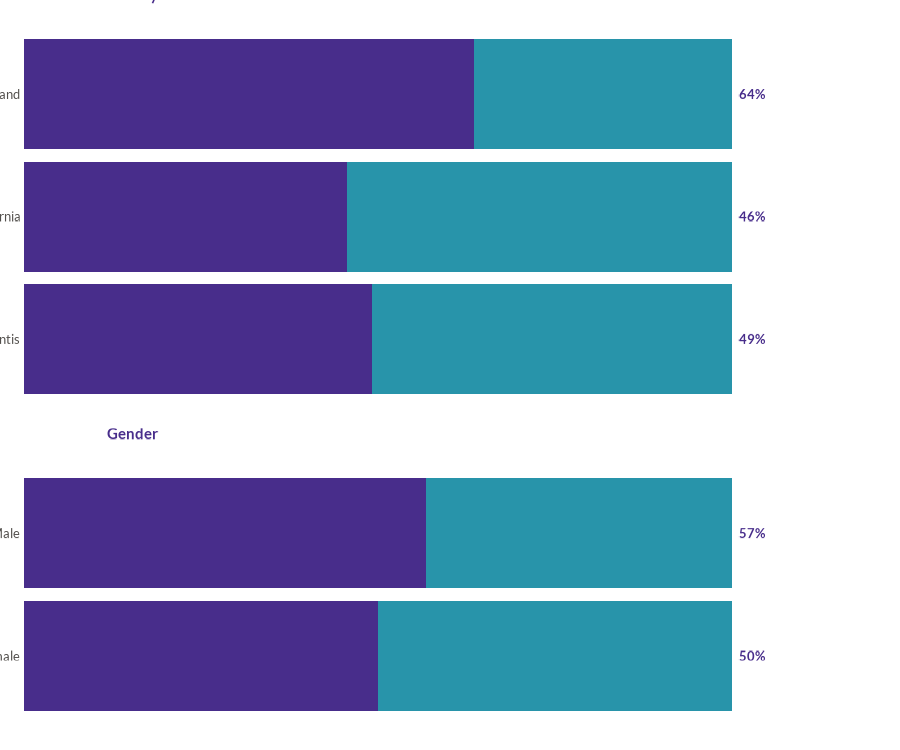
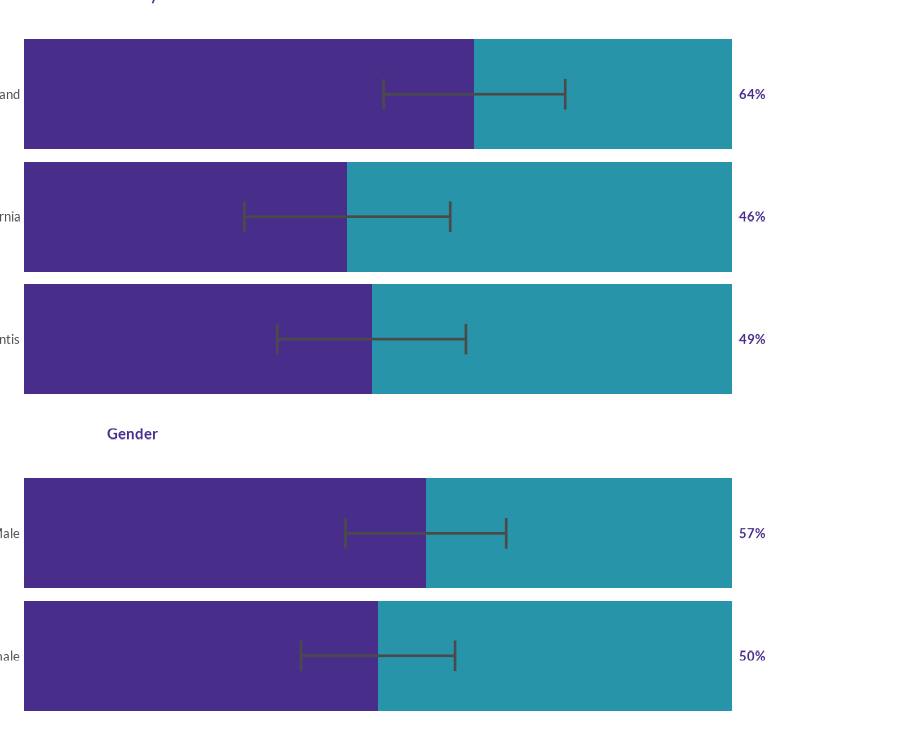
Deploying to gh-pages from @ worldjusticeproject-org/WJPr@0c21d4c911905995037937af474b43172f8aeab3 🚀

diff --git a/reference/wjp_groupbars.html b/reference/wjp_groupbars.html
@@ -99,6 +99,10 @@ groups like gender, age, income, etc.</p>
 <span>  level_order <span class="op">=</span> <span class="cn">NULL</span>,</span>
 <span>  show_national <span class="op">=</span> <span class="cn">FALSE</span>,</span>
 <span>  national_value <span class="op">=</span> <span class="cn">NULL</span>,</span>
+<span>  draw_ci <span class="op">=</span> <span class="cn">FALSE</span>,</span>
+<span>  sd <span class="op">=</span> <span class="cn">NULL</span>,</span>
+<span>  sample_size <span class="op">=</span> <span class="cn">NULL</span>,</span>
+<span>  ci_level <span class="op">=</span> <span class="fl">0.95</span>,</span>
 <span>  ptheme <span class="op">=</span> <span class="fu"><a href="WJP_theme.html">WJP_theme</a></span><span class="op">(</span><span class="op">)</span></span>
 <span><span class="op">)</span></span></code></pre></div>
     </div>
@@ -150,6 +154,26 @@ specifying the order of levels within each group. Default is NULL (uses data ord
 <dd><p>Numeric. The national average value to display when show_national is TRUE.</p></dd>
 
 
+<dt id="arg-draw-ci">draw_ci<a class="anchor" aria-label="anchor" href="#arg-draw-ci"></a></dt>
+<dd><p>Logical. If TRUE, draws a per-category confidence interval on each
+primary bar using a normal approximation built from <code>sd</code> and <code>sample_size</code>.
+Default is FALSE.</p></dd>
+
+
+<dt id="arg-sd">sd<a class="anchor" aria-label="anchor" href="#arg-sd"></a></dt>
+<dd><p>String. Column name with the standard deviation used to build the
+confidence interval. Required when <code>draw_ci = TRUE</code>. Default is NULL.</p></dd>
+
+
+<dt id="arg-sample-size">sample_size<a class="anchor" aria-label="anchor" href="#arg-sample-size"></a></dt>
+<dd><p>String. Column name with the number of observations used to
+build the confidence interval. Required when <code>draw_ci = TRUE</code>. Default is NULL.</p></dd>
+
+
+<dt id="arg-ci-level">ci_level<a class="anchor" aria-label="anchor" href="#arg-ci-level"></a></dt>
+<dd><p>Numeric. Confidence level for the interval. Default is 0.95.</p></dd>
+
+
 <dt id="arg-ptheme">ptheme<a class="anchor" aria-label="anchor" href="#arg-ptheme"></a></dt>
 <dd><p>A ggplot2 theme. Default is WJP_theme().</p></dd>
 
@@ -193,6 +217,26 @@ specifying the order of levels within each group. Default is NULL (uses data ord
 <span class="r-in"><span>  group_order <span class="op">=</span> <span class="fu"><a href="https://rdrr.io/r/base/c.html" class="external-link">c</a></span><span class="op">(</span><span class="st">"Gender"</span>, <span class="st">"Age"</span><span class="op">)</span></span></span>
 <span class="r-in"><span><span class="op">)</span></span></span>
 <span class="r-plt img"><img src="wjp_groupbars-2.png" alt="" width="700" height="433"></span>
+<span class="r-in"><span></span></span>
+<span class="r-in"><span><span class="co"># With a per-category confidence interval (requires sd + sample_size columns)</span></span></span>
+<span class="r-in"><span><span class="va">data_ci</span> <span class="op">&lt;-</span> <span class="fu"><a href="https://rdrr.io/r/base/data.frame.html" class="external-link">data.frame</a></span><span class="op">(</span></span></span>
+<span class="r-in"><span>  group    <span class="op">=</span> <span class="fu"><a href="https://rdrr.io/r/base/c.html" class="external-link">c</a></span><span class="op">(</span><span class="st">"Gender"</span>, <span class="st">"Gender"</span>, <span class="st">"Age"</span>, <span class="st">"Age"</span>, <span class="st">"Age"</span><span class="op">)</span>,</span></span>
+<span class="r-in"><span>  category <span class="op">=</span> <span class="fu"><a href="https://rdrr.io/r/base/c.html" class="external-link">c</a></span><span class="op">(</span><span class="st">"Male"</span>, <span class="st">"Female"</span>, <span class="st">"18-29"</span>, <span class="st">"30-49"</span>, <span class="st">"50+"</span><span class="op">)</span>,</span></span>
+<span class="r-in"><span>  value    <span class="op">=</span> <span class="fu"><a href="https://rdrr.io/r/base/c.html" class="external-link">c</a></span><span class="op">(</span><span class="fl">0.45</span>, <span class="fl">0.52</span>, <span class="fl">0.38</span>, <span class="fl">0.48</span>, <span class="fl">0.55</span><span class="op">)</span>,</span></span>
+<span class="r-in"><span>  se       <span class="op">=</span> <span class="fu"><a href="https://rdrr.io/r/base/c.html" class="external-link">c</a></span><span class="op">(</span><span class="fl">0.50</span>, <span class="fl">0.50</span>, <span class="fl">0.49</span>, <span class="fl">0.50</span>, <span class="fl">0.50</span><span class="op">)</span>,</span></span>
+<span class="r-in"><span>  n        <span class="op">=</span> <span class="fu"><a href="https://rdrr.io/r/base/c.html" class="external-link">c</a></span><span class="op">(</span><span class="fl">420</span>, <span class="fl">460</span>, <span class="fl">180</span>, <span class="fl">510</span>, <span class="fl">240</span><span class="op">)</span></span></span>
+<span class="r-in"><span><span class="op">)</span></span></span>
+<span class="r-in"><span></span></span>
+<span class="r-in"><span><span class="fu">wjp_groupbars</span><span class="op">(</span></span></span>
+<span class="r-in"><span>  <span class="va">data_ci</span>,</span></span>
+<span class="r-in"><span>  target      <span class="op">=</span> <span class="st">"value"</span>,</span></span>
+<span class="r-in"><span>  grouping    <span class="op">=</span> <span class="st">"group"</span>,</span></span>
+<span class="r-in"><span>  levels      <span class="op">=</span> <span class="st">"category"</span>,</span></span>
+<span class="r-in"><span>  draw_ci     <span class="op">=</span> <span class="cn">TRUE</span>,</span></span>
+<span class="r-in"><span>  sd          <span class="op">=</span> <span class="st">"se"</span>,</span></span>
+<span class="r-in"><span>  sample_size <span class="op">=</span> <span class="st">"n"</span></span></span>
+<span class="r-in"><span><span class="op">)</span></span></span>
+<span class="r-plt img"><img src="wjp_groupbars-3.png" alt="" width="700" height="433"></span>
 <span class="r-in"><span></span></span>
 </code></pre></div>
     </div>

diff --git a/articles/gallery.html b/articles/gallery.html
@@ -887,14 +887,19 @@ category</caption>
 <p><code><a href="../reference/wjp_groupbars.html">wjp_groupbars()</a></code> - Faceted bars that compare a value
 across demographic groups (one facet per <code>grouping</code>).</p>
 <div class="sourceCode" id="cb15"><pre class="downlit sourceCode r">
-<code class="sourceCode R"><span><span class="co"># Value by country, plus the same value broken down by gender</span></span>
+<code class="sourceCode R"><span><span class="co"># Value by country, plus the same value broken down by gender.</span></span>
+<span><span class="co"># Keep the standard deviation (sd) and sample size (n) per category so we can</span></span>
+<span><span class="co"># draw a confidence interval on each bar.</span></span>
 <span><span class="va">country_level</span> <span class="op">&lt;-</span> <span class="va">gpp_data</span> <span class="op"><a href="../reference/pipe.html">%&gt;%</a></span></span>
 <span>  <span class="fu"><a href="https://dplyr.tidyverse.org/reference/filter.html" class="external-link">filter</a></span><span class="op">(</span><span class="va">year</span> <span class="op">==</span> <span class="fl">2022</span><span class="op">)</span> <span class="op"><a href="../reference/pipe.html">%&gt;%</a></span></span>
 <span>  <span class="fu"><a href="https://dplyr.tidyverse.org/reference/mutate.html" class="external-link">mutate</a></span><span class="op">(</span>q1a <span class="op">=</span> <span class="fu"><a href="https://rdrr.io/r/base/double.html" class="external-link">as.double</a></span><span class="op">(</span><span class="fu"><a href="https://rdrr.io/r/base/class.html" class="external-link">unclass</a></span><span class="op">(</span><span class="va">q1a</span><span class="op">)</span><span class="op">)</span>,</span>
 <span>         trust <span class="op">=</span> <span class="fu"><a href="https://dplyr.tidyverse.org/reference/case-and-replace-when.html" class="external-link">case_when</a></span><span class="op">(</span><span class="va">q1a</span> <span class="op">&lt;=</span> <span class="fl">2</span> <span class="op">~</span> <span class="fl">1</span>, <span class="va">q1a</span> <span class="op">&lt;=</span> <span class="fl">4</span> <span class="op">~</span> <span class="fl">0</span><span class="op">)</span><span class="op">)</span> <span class="op"><a href="../reference/pipe.html">%&gt;%</a></span></span>
 <span>  <span class="fu"><a href="https://dplyr.tidyverse.org/reference/filter.html" class="external-link">filter</a></span><span class="op">(</span><span class="op">!</span><span class="fu"><a href="https://rdrr.io/r/base/NA.html" class="external-link">is.na</a></span><span class="op">(</span><span class="va">trust</span><span class="op">)</span><span class="op">)</span> <span class="op"><a href="../reference/pipe.html">%&gt;%</a></span></span>
 <span>  <span class="fu"><a href="https://dplyr.tidyverse.org/reference/group_by.html" class="external-link">group_by</a></span><span class="op">(</span><span class="va">country</span><span class="op">)</span> <span class="op"><a href="../reference/pipe.html">%&gt;%</a></span></span>
-<span>  <span class="fu"><a href="https://dplyr.tidyverse.org/reference/summarise.html" class="external-link">summarise</a></span><span class="op">(</span>value <span class="op">=</span> <span class="fu"><a href="https://rdrr.io/r/base/mean.html" class="external-link">mean</a></span><span class="op">(</span><span class="va">trust</span>, na.rm <span class="op">=</span> <span class="cn">TRUE</span><span class="op">)</span>, .groups <span class="op">=</span> <span class="st">"drop"</span><span class="op">)</span> <span class="op"><a href="../reference/pipe.html">%&gt;%</a></span></span>
+<span>  <span class="fu"><a href="https://dplyr.tidyverse.org/reference/summarise.html" class="external-link">summarise</a></span><span class="op">(</span>value <span class="op">=</span> <span class="fu"><a href="https://rdrr.io/r/base/mean.html" class="external-link">mean</a></span><span class="op">(</span><span class="va">trust</span>, na.rm <span class="op">=</span> <span class="cn">TRUE</span><span class="op">)</span>,</span>
+<span>            sd    <span class="op">=</span> <span class="fu"><a href="https://rdrr.io/r/stats/sd.html" class="external-link">sd</a></span><span class="op">(</span><span class="va">trust</span>, na.rm <span class="op">=</span> <span class="cn">TRUE</span><span class="op">)</span>,</span>
+<span>            n     <span class="op">=</span> <span class="fu"><a href="https://dplyr.tidyverse.org/reference/context.html" class="external-link">n</a></span><span class="op">(</span><span class="op">)</span>,</span>
+<span>            .groups <span class="op">=</span> <span class="st">"drop"</span><span class="op">)</span> <span class="op"><a href="../reference/pipe.html">%&gt;%</a></span></span>
 <span>  <span class="fu"><a href="https://dplyr.tidyverse.org/reference/mutate.html" class="external-link">mutate</a></span><span class="op">(</span>group <span class="op">=</span> <span class="st">"Country"</span><span class="op">)</span> <span class="op"><a href="../reference/pipe.html">%&gt;%</a></span></span>
 <span>  <span class="fu"><a href="https://dplyr.tidyverse.org/reference/rename.html" class="external-link">rename</a></span><span class="op">(</span>category <span class="op">=</span> <span class="va">country</span><span class="op">)</span></span>
 <span></span>
@@ -906,7 +911,10 @@ across demographic groups (one facet per <code>grouping</code>).</p>
 <span>         gender <span class="op">=</span> <span class="fu"><a href="https://dplyr.tidyverse.org/reference/case-and-replace-when.html" class="external-link">case_when</a></span><span class="op">(</span><span class="va">gend</span> <span class="op">==</span> <span class="fl">1</span> <span class="op">~</span> <span class="st">"Male"</span>, <span class="va">gend</span> <span class="op">==</span> <span class="fl">2</span> <span class="op">~</span> <span class="st">"Female"</span><span class="op">)</span><span class="op">)</span> <span class="op"><a href="../reference/pipe.html">%&gt;%</a></span></span>
 <span>  <span class="fu"><a href="https://dplyr.tidyverse.org/reference/filter.html" class="external-link">filter</a></span><span class="op">(</span><span class="op">!</span><span class="fu"><a href="https://rdrr.io/r/base/NA.html" class="external-link">is.na</a></span><span class="op">(</span><span class="va">trust</span><span class="op">)</span>, <span class="op">!</span><span class="fu"><a href="https://rdrr.io/r/base/NA.html" class="external-link">is.na</a></span><span class="op">(</span><span class="va">gender</span><span class="op">)</span><span class="op">)</span> <span class="op"><a href="../reference/pipe.html">%&gt;%</a></span></span>
 <span>  <span class="fu"><a href="https://dplyr.tidyverse.org/reference/group_by.html" class="external-link">group_by</a></span><span class="op">(</span><span class="va">gender</span><span class="op">)</span> <span class="op"><a href="../reference/pipe.html">%&gt;%</a></span></span>
-<span>  <span class="fu"><a href="https://dplyr.tidyverse.org/reference/summarise.html" class="external-link">summarise</a></span><span class="op">(</span>value <span class="op">=</span> <span class="fu"><a href="https://rdrr.io/r/base/mean.html" class="external-link">mean</a></span><span class="op">(</span><span class="va">trust</span>, na.rm <span class="op">=</span> <span class="cn">TRUE</span><span class="op">)</span>, .groups <span class="op">=</span> <span class="st">"drop"</span><span class="op">)</span> <span class="op"><a href="../reference/pipe.html">%&gt;%</a></span></span>
+<span>  <span class="fu"><a href="https://dplyr.tidyverse.org/reference/summarise.html" class="external-link">summarise</a></span><span class="op">(</span>value <span class="op">=</span> <span class="fu"><a href="https://rdrr.io/r/base/mean.html" class="external-link">mean</a></span><span class="op">(</span><span class="va">trust</span>, na.rm <span class="op">=</span> <span class="cn">TRUE</span><span class="op">)</span>,</span>
+<span>            sd    <span class="op">=</span> <span class="fu"><a href="https://rdrr.io/r/stats/sd.html" class="external-link">sd</a></span><span class="op">(</span><span class="va">trust</span>, na.rm <span class="op">=</span> <span class="cn">TRUE</span><span class="op">)</span>,</span>
+<span>            n     <span class="op">=</span> <span class="fu"><a href="https://dplyr.tidyverse.org/reference/context.html" class="external-link">n</a></span><span class="op">(</span><span class="op">)</span>,</span>
+<span>            .groups <span class="op">=</span> <span class="st">"drop"</span><span class="op">)</span> <span class="op"><a href="../reference/pipe.html">%&gt;%</a></span></span>
 <span>  <span class="fu"><a href="https://dplyr.tidyverse.org/reference/mutate.html" class="external-link">mutate</a></span><span class="op">(</span>group <span class="op">=</span> <span class="st">"Gender"</span><span class="op">)</span> <span class="op"><a href="../reference/pipe.html">%&gt;%</a></span></span>
 <span>  <span class="fu"><a href="https://dplyr.tidyverse.org/reference/rename.html" class="external-link">rename</a></span><span class="op">(</span>category <span class="op">=</span> <span class="va">gender</span><span class="op">)</span></span>
 <span></span>
@@ -918,44 +926,62 @@ across demographic groups (one facet per <code>grouping</code>).</p>
 <span>  grouping    <span class="op">=</span> <span class="st">"group"</span>,</span>
 <span>  levels      <span class="op">=</span> <span class="st">"category"</span>,</span>
 <span>  colors      <span class="op">=</span> <span class="fu"><a href="https://rdrr.io/r/base/c.html" class="external-link">c</a></span><span class="op">(</span><span class="st">"#482d8b"</span>, <span class="st">"#2894aa"</span><span class="op">)</span>,</span>
-<span>  group_order <span class="op">=</span> <span class="fu"><a href="https://rdrr.io/r/base/c.html" class="external-link">c</a></span><span class="op">(</span><span class="st">"Country"</span>, <span class="st">"Gender"</span><span class="op">)</span></span>
+<span>  group_order <span class="op">=</span> <span class="fu"><a href="https://rdrr.io/r/base/c.html" class="external-link">c</a></span><span class="op">(</span><span class="st">"Country"</span>, <span class="st">"Gender"</span><span class="op">)</span>,</span>
+<span>  draw_ci     <span class="op">=</span> <span class="cn">TRUE</span>,</span>
+<span>  sd          <span class="op">=</span> <span class="st">"sd"</span>,</span>
+<span>  sample_size <span class="op">=</span> <span class="st">"n"</span></span>
 <span><span class="op">)</span></span></code></pre></div>
 <p><img src="gallery_files/figure-html/groupbars-1.png" class="r-plt" alt="" width="100%"></p>
 <p><strong>Expected input structure</strong> — one row per
 <code>levels</code> category, tagged with the <code>grouping</code>
-(facet) it belongs to and its <code>target</code> value.</p>
+(facet) it belongs to and its <code>target</code> value. To draw a
+confidence interval on each bar, set <code>draw_ci = TRUE</code> and
+supply per-category <code>sd</code> (standard deviation) and
+<code>sample_size</code> columns.</p>
 <table class="table">
 <caption>Input data for wjp_groupbars(): target = value, grouping =
-group, levels = category</caption>
+group, levels = category, sd/n for the confidence interval</caption>
 <thead><tr class="header">
 <th align="left">category</th>
 <th align="right">value</th>
+<th align="right">sd</th>
+<th align="right">n</th>
 <th align="left">group</th>
 </tr></thead>
 <tbody>
 <tr class="odd">
 <td align="left">Atlantis</td>
 <td align="right">0.4909091</td>
+<td align="right">0.5045250</td>
+<td align="right">55</td>
 <td align="left">Country</td>
 </tr>
 <tr class="even">
 <td align="left">Narnia</td>
 <td align="right">0.4565217</td>
+<td align="right">0.5036102</td>
+<td align="right">46</td>
 <td align="left">Country</td>
 </tr>
 <tr class="odd">
 <td align="left">Neverland</td>
 <td align="right">0.6363636</td>
+<td align="right">0.4854794</td>
+<td align="right">55</td>
 <td align="left">Country</td>
 </tr>
 <tr class="even">
 <td align="left">Female</td>
 <td align="right">0.5000000</td>
+<td align="right">0.5030770</td>
+<td align="right">82</td>
 <td align="left">Gender</td>
 </tr>
 <tr class="odd">
 <td align="left">Male</td>
 <td align="right">0.5675676</td>
+<td align="right">0.4987953</td>
+<td align="right">74</td>
 <td align="left">Gender</td>
 </tr>
 </tbody>

diff --git a/articles/data-preparation.html b/articles/data-preparation.html
@@ -836,6 +836,11 @@ respondent.</p>
 <td>target, grouping, labels</td>
 <td>x_lab_pos</td>
 </tr>
+<tr class="even">
+<td><code><a href="../reference/wjp_groupbars.html">wjp_groupbars()</a></code></td>
+<td>target, grouping, levels</td>
+<td>labels, group_order, sd + sample_size (for CI)</td>
+</tr>
 </tbody>
 </table>
 </div>

diff --git a/reference/wjp_groupbars.md b/reference/wjp_groupbars.md
@@ -21,6 +21,10 @@ wjp_groupbars(
   level_order = NULL,
   show_national = FALSE,
   national_value = NULL,
+  draw_ci = FALSE,
+  sd = NULL,
+  sample_size = NULL,
+  ci_level = 0.95,
   ptheme = WJP_theme()
 )
 ```
@@ -77,6 +81,26 @@ wjp_groupbars(
   Numeric. The national average value to display when show_national is
   TRUE.
 
+- draw_ci:
+
+  Logical. If TRUE, draws a per-category confidence interval on each
+  primary bar using a normal approximation built from `sd` and
+  `sample_size`. Default is FALSE.
+
+- sd:
+
+  String. Column name with the standard deviation used to build the
+  confidence interval. Required when `draw_ci = TRUE`. Default is NULL.
+
+- sample_size:
+
+  String. Column name with the number of observations used to build the
+  confidence interval. Required when `draw_ci = TRUE`. Default is NULL.
+
+- ci_level:
+
+  Numeric. Confidence level for the interval. Default is 0.95.
+
 - ptheme:
 
   A ggplot2 theme. Default is WJP_theme().
@@ -118,6 +142,26 @@ wjp_groupbars(
   levels      = "category",
   colors      = c("#2a2a94", "#d0d1d3"),
   group_order = c("Gender", "Age")
+)
+
+
+# With a per-category confidence interval (requires sd + sample_size columns)
+data_ci <- data.frame(
+  group    = c("Gender", "Gender", "Age", "Age", "Age"),
+  category = c("Male", "Female", "18-29", "30-49", "50+"),
+  value    = c(0.45, 0.52, 0.38, 0.48, 0.55),
+  se       = c(0.50, 0.50, 0.49, 0.50, 0.50),
+  n        = c(420, 460, 180, 510, 240)
+)
+
+wjp_groupbars(
+  data_ci,
+  target      = "value",
+  grouping    = "group",
+  levels      = "category",
+  draw_ci     = TRUE,
+  sd          = "se",
+  sample_size = "n"
 )
 
 ```

diff --git a/articles/gallery.md b/articles/gallery.md
@@ -564,14 +564,19 @@ per `grouping`).
 
 ``` r
 
-# Value by country, plus the same value broken down by gender
+# Value by country, plus the same value broken down by gender.
+# Keep the standard deviation (sd) and sample size (n) per category so we can
+# draw a confidence interval on each bar.
 country_level <- gpp_data %>%
   filter(year == 2022) %>%
   mutate(q1a = as.double(unclass(q1a)),
          trust = case_when(q1a <= 2 ~ 1, q1a <= 4 ~ 0)) %>%
   filter(!is.na(trust)) %>%
   group_by(country) %>%
-  summarise(value = mean(trust, na.rm = TRUE), .groups = "drop") %>%
+  summarise(value = mean(trust, na.rm = TRUE),
+            sd    = sd(trust, na.rm = TRUE),
+            n     = n(),
+            .groups = "drop") %>%
   mutate(group = "Country") %>%
   rename(category = country)
 
@@ -583,7 +588,10 @@ gender_level <- gpp_data %>%
          gender = case_when(gend == 1 ~ "Male", gend == 2 ~ "Female")) %>%
   filter(!is.na(trust), !is.na(gender)) %>%
   group_by(gender) %>%
-  summarise(value = mean(trust, na.rm = TRUE), .groups = "drop") %>%
+  summarise(value = mean(trust, na.rm = TRUE),
+            sd    = sd(trust, na.rm = TRUE),
+            n     = n(),
+            .groups = "drop") %>%
   mutate(group = "Gender") %>%
   rename(category = gender)
 
@@ -595,25 +603,30 @@ wjp_groupbars(
   grouping    = "group",
   levels      = "category",
   colors      = c("#482d8b", "#2894aa"),
-  group_order = c("Country", "Gender")
+  group_order = c("Country", "Gender"),
+  draw_ci     = TRUE,
+  sd          = "sd",
+  sample_size = "n"
 )
 ```
 
 ![](gallery_files/figure-html/groupbars-1.png)
 
 **Expected input structure** — one row per `levels` category, tagged
-with the `grouping` (facet) it belongs to and its `target` value.
+with the `grouping` (facet) it belongs to and its `target` value. To
+draw a confidence interval on each bar, set `draw_ci = TRUE` and supply
+per-category `sd` (standard deviation) and `sample_size` columns.
 
-| category  |     value | group   |
-|:----------|----------:|:--------|
-| Atlantis  | 0.4909091 | Country |
-| Narnia    | 0.4565217 | Country |
-| Neverland | 0.6363636 | Country |
-| Female    | 0.5000000 | Gender  |
-| Male      | 0.5675676 | Gender  |
+| category  |     value |        sd |   n | group   |
+|:----------|----------:|----------:|----:|:--------|
+| Atlantis  | 0.4909091 | 0.5045250 |  55 | Country |
+| Narnia    | 0.4565217 | 0.5036102 |  46 | Country |
+| Neverland | 0.6363636 | 0.4854794 |  55 | Country |
+| Female    | 0.5000000 | 0.5030770 |  82 | Gender  |
+| Male      | 0.5675676 | 0.4987953 |  74 | Gender  |
 
 Input data for wjp_groupbars(): target = value, grouping = group, levels
-= category {.table}
+= category, sd/n for the confidence interval {.table}
 
 ------------------------------------------------------------------------
 

diff --git a/articles/data-preparation.md b/articles/data-preparation.md
@@ -452,3 +452,4 @@ data <- raw_data %>%
 | [`wjp_gauge()`](https://worldjusticeproject-org.github.io/WJPr/reference/wjp_gauge.md) | target, colors | labels, factor_order |
 | [`wjp_lollipops()`](https://worldjusticeproject-org.github.io/WJPr/reference/wjp_lollipops.md) | target, grouping | order |
 | [`wjp_edgebars()`](https://worldjusticeproject-org.github.io/WJPr/reference/wjp_edgebars.md) | target, grouping, labels | x_lab_pos |
+| [`wjp_groupbars()`](https://worldjusticeproject-org.github.io/WJPr/reference/wjp_groupbars.md) | target, grouping, levels | labels, group_order, sd + sample_size (for CI) |